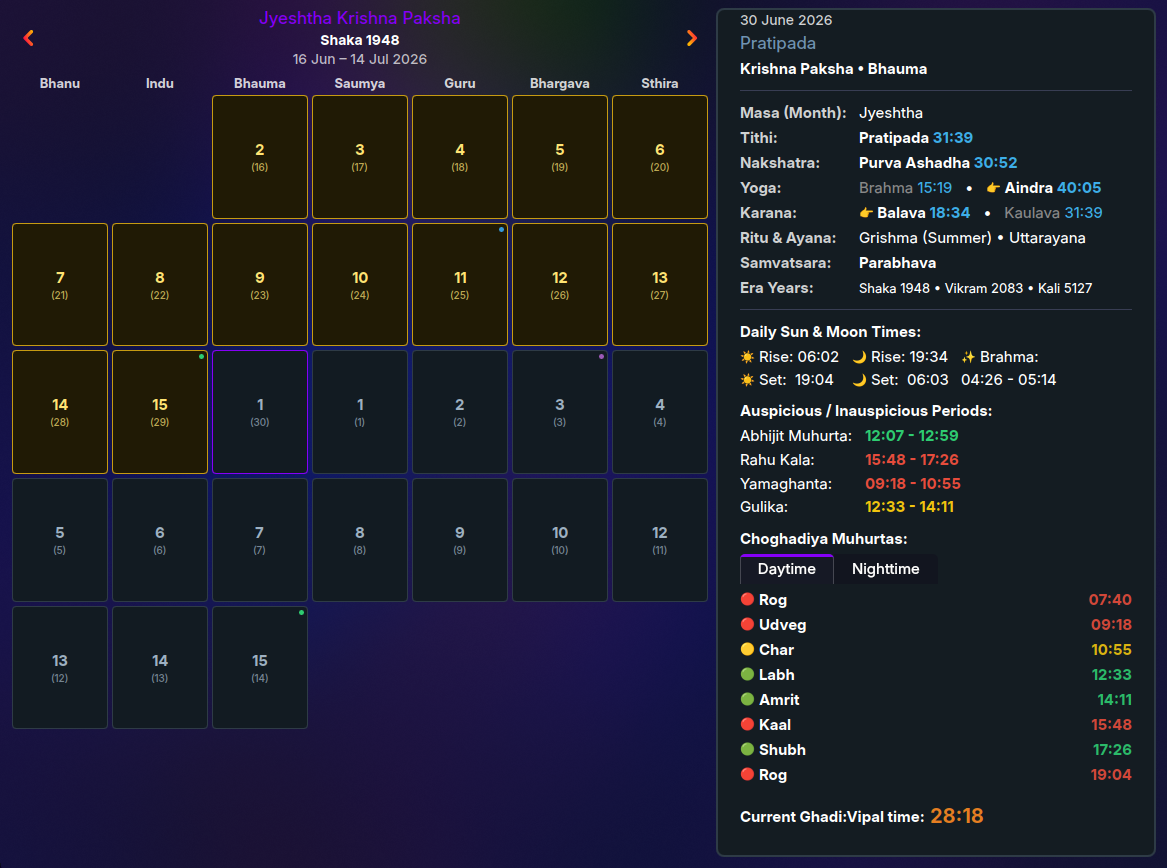
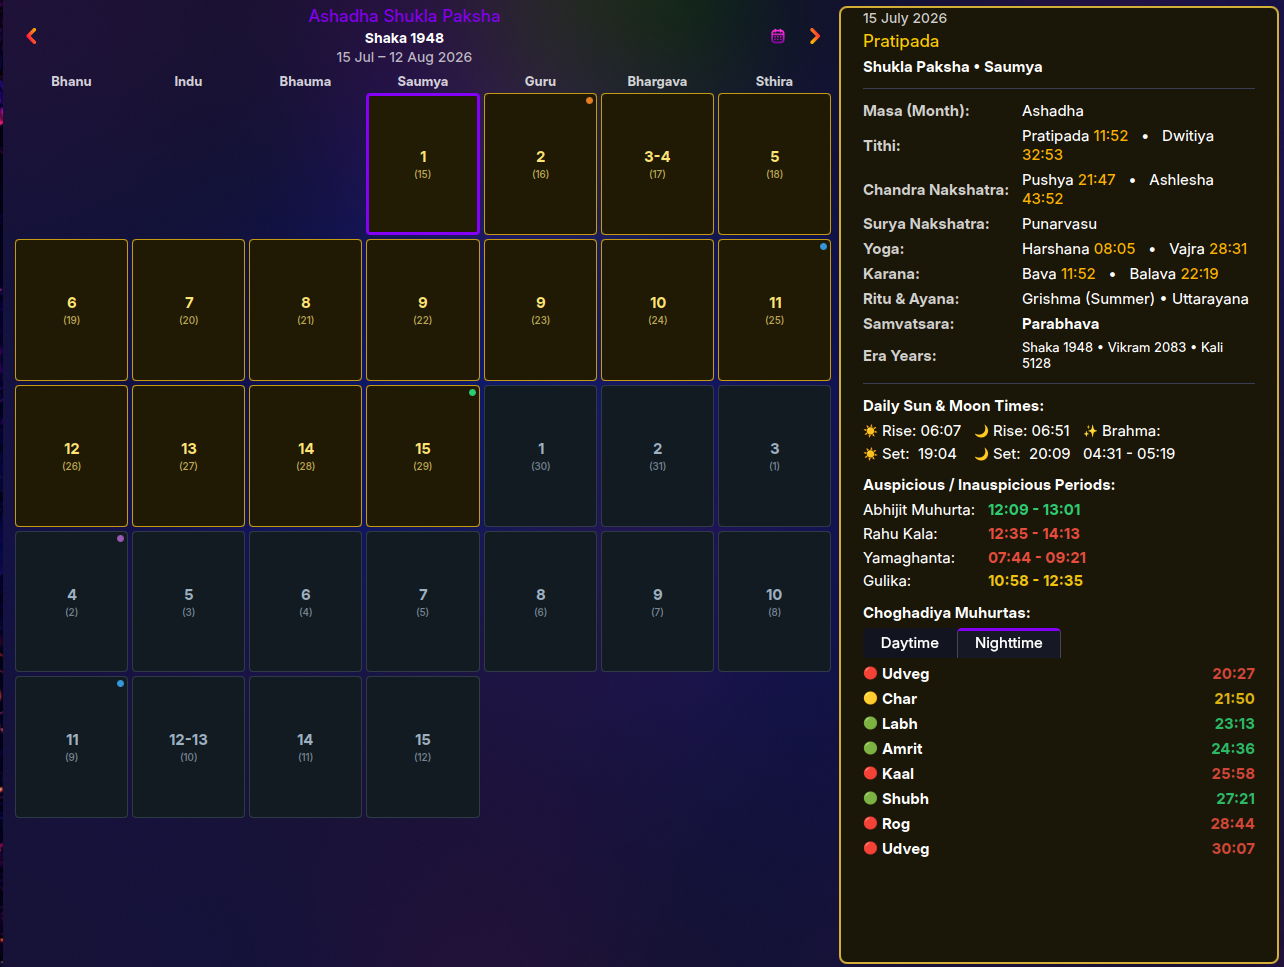
Handled Kshaya and Vriddhi tithis

diff --git a/contents/ui/main.qml b/contents/ui/main.qml
@@ -29,12 +29,12 @@ PlasmoidItem {
     onConfigFestivalRuleChanged: reloadAll()
     onConfigTithiModeChanged: reloadAll()
 
-    toolTipMainText: currentPanchanga ? `${currentPanchanga.masa} • ${currentPanchanga.paksha} ${configLang === "devanagari" ? "पक्ष" : "Paksha"} • ${configTithiMode === "traditional" ? currentPanchanga.tithi_1 : currentPanchanga.tithi}` : i18n("Kālayantra")
+    toolTipMainText: currentPanchanga ? `${currentPanchanga.masa} • ${currentPanchanga.paksha} ${configLang === "devanagari" ? "पक्ष" : "Paksha"} • ${currentPanchanga.tithi}` : i18n("Kālayantra")
     toolTipSubText: currentPanchanga ? (
         `${currentPanchanga.vaara}, ${currentPanchanga.date} (${currentPanchanga.era_name} ${currentPanchanga.era_year})\n\n` +
         (configLang === "devanagari" ? "सूर्योदय: " : "Sunrise: ") + `${currentPanchanga.sunrise}  •  ` + (configLang === "devanagari" ? "सूर्यास्त: " : "Sunset: ") + `${currentPanchanga.sunset}\n` +
         (configLang === "devanagari" ? "चंद्रोदय: " : "Moonrise: ") + `${currentPanchanga.moonrise}  •  ` + (configLang === "devanagari" ? "चंद्रास्त: " : "Moonset: ") + `${currentPanchanga.moonset}\n\n` +
-        (configLang === "devanagari" ? "तिथि: " : "Tithi: ") + `${configTithiMode === "traditional" ? currentPanchanga.tithi_1 : currentPanchanga.tithi}\n` +
+        (configLang === "devanagari" ? "तिथि: " : "Tithi: ") + `${currentPanchanga.tithi}\n` +
         (configLang === "devanagari" ? "नक्षत्र: " : "Nakshatra: ") + `${currentPanchanga.nakshatra}\n` +
         (configLang === "devanagari" ? "योग: " : "Yoga: ") + `${currentPanchanga.yoga}\n` +
         (configLang === "devanagari" ? "करण: " : "Karana: ") + `${currentPanchanga.karana}\n` +

diff --git a/contents/ui/CompactRepresentation.qml b/contents/ui/CompactRepresentation.qml
@@ -61,7 +61,7 @@ Item {
                 level: 5
                 text: {
                     if (!root.currentPanchanga) return "Loading...";
-                    var displayTithi = (root.configTithiMode === "traditional") ? root.currentPanchanga.tithi_1 : root.currentPanchanga.tithi;
+                    var displayTithi = root.currentPanchanga.tithi;
                     return `${displayTithi} • ${root.currentPanchanga.vaara} • ${(plasmoid.configuration.lang === "devanagari") ? "घ" : "Gh"}: ${root.liveGhadiTime}`;
                 }
                 font.bold: true

diff --git a/contents/ui/Kaladarshana.qml b/contents/ui/Kaladarshana.qml
@@ -754,7 +754,7 @@ Item {
 
                          Kirigami.Heading {
                              level: 2
-                             text: kaladarshana.selectedDayData ? (root.configTithiMode === "astronomical" ? kaladarshana.selectedDayData.tithi : kaladarshana.selectedDayData.tithi_1) : i18n("Select a day")
+                             text: kaladarshana.selectedDayData ? kaladarshana.selectedDayData.tithi : i18n("Select a day")
                              color: kaladarshana.selectedDayData && kaladarshana.selectedDayData.is_krishna_paksha ? "#7094b3" : "#ffcc00"
                              font.bold: true
                          }

diff --git a/contents/scripts/Kalotsavachakra.py b/contents/scripts/Kalotsavachakra.py
@@ -36,7 +36,7 @@ def resolve_festival_details(key, metadata_key, lang):
     }
 
 
-def calculate_festivals(astro_data, tz, custom_observances=None, festival_rule="vaishnava", lang="en"):
+def _calculate_festivals_internal(astro_data, tz, custom_observances=None, festival_rule="vaishnava", lang="en"):
     festivals = []
     
     # Extract raw parameters from astro_data
@@ -282,31 +282,40 @@ def calculate_festivals(astro_data, tz, custom_observances=None, festival_rule="
     # Dwadashi Day: Check if Vaishnava Ekadashi was pushed to today
     if t_sunrise == 11 or t_sunrise == 26:
         shukla_dwadashi = (t_sunrise == 11)
-        # Find yesterday's sunrise tithi
         jd_yest = sunrise_jd - 1.0
         t_yest = get_tithi_at_jd(jd_yest)
         
-        # If yesterday was Ekadashi (10 or 25)
+        yesterday_had_ekadashi = False
+        yesterday_was_viddha = False
+        
         if t_yest == 10 or t_yest == 25:
-            # Check if yesterday was viddha at Arunodaya
+            yesterday_had_ekadashi = True
             yest_sunrise_jd, _, _, _ = Kalachakra.get_sun_moon_rise_set(jd_ut_start - 1.0, astro_data.get("lat", 23.1765), astro_data.get("lon", 75.7885), astro_data.get("alt", 511.0))
             yest_arunodaya_jd = yest_sunrise_jd - (96.0 / 1440.0)
             t_yest_aru = get_tithi_at_jd(yest_arunodaya_jd)
-            is_viddha = (t_yest_aru == 9 or t_yest_aru == 24)
-            
-            if is_viddha and festival_rule == "vaishnava":
-                ekadashi_key = ("adhika" if astro_data.get("is_adhika", False) else masa_idx, not shukla_dwadashi)
-                ekadashi_meta = Kalakosha.EKADASHI_NAMES.get(ekadashi_key, {"en": "Ekadashi", "iast": "Ekādaśī", "devanagari": "एकादशी"})
-                ekadashi_name = ekadashi_meta[lang]
-                festivals.append({
-                    "name": f"{ekadashi_name} (Vaishnava)",
-                    "type": "Ekadashi",
-                    "color": "#3498db",
-                    "priority": 9,
-                    "description": f"{ekadashi_name} Vaishnava fast observed on Dwadashi due to Dashami-Ekadashi mixture at yesterday's Arunodaya.",
-                    "rule": "Vaishnava Dwadashi (Mahadvadashi)",
-                    "notify": "high"
-                })
+            yesterday_was_viddha = (t_yest_aru == 9 or t_yest_aru == 24)
+        else:
+            yest_sunrise_jd, _, _, _ = Kalachakra.get_sun_moon_rise_set(jd_ut_start - 1.0, astro_data.get("lat", 23.1765), astro_data.get("lon", 75.7885), astro_data.get("alt", 511.0))
+            yest_tithi_end_jd = Kalachakra.find_transition(yest_sunrise_jd, get_tithi_at_jd)
+            if yest_tithi_end_jd is not None:
+                t_yest_2 = get_tithi_at_jd(yest_tithi_end_jd + 0.02)
+                if t_yest_2 == 10 or t_yest_2 == 25:
+                    yesterday_had_ekadashi = True
+                    yesterday_was_viddha = True
+                    
+        if yesterday_had_ekadashi and yesterday_was_viddha and festival_rule == "vaishnava":
+            ekadashi_key = ("adhika" if astro_data.get("is_adhika", False) else masa_idx, not shukla_dwadashi)
+            ekadashi_meta = Kalakosha.EKADASHI_NAMES.get(ekadashi_key, {"en": "Ekadashi", "iast": "Ekādaśī", "devanagari": "एकादशी"})
+            ekadashi_name = ekadashi_meta[lang]
+            festivals.append({
+                "name": f"{ekadashi_name} (Vaishnava)",
+                "type": "Ekadashi",
+                "color": "#3498db",
+                "priority": 9,
+                "description": f"{ekadashi_name} Vaishnava fast observed on Dwadashi due to Dashami-Ekadashi mixture or Kshaya yesterday.",
+                "rule": "Vaishnava Dwadashi (Mahadvadashi)",
+                "notify": "high"
+            })
 
     # --- 3. Custom Lunar Observances Solver ---
     if custom_observances:
@@ -365,6 +374,29 @@ def calculate_festivals(astro_data, tz, custom_observances=None, festival_rule="
                 })
 
     # Sort festivals by priority descending
+    festivals.sort(key=lambda x: x["priority"], reverse=True)
+    return festivals
+
+
+def calculate_festivals(astro_data, tz, custom_observances=None, festival_rule="vaishnava", lang="en"):
+    has_kshaya = astro_data.get("is_tithi_2_kshaya", False)
+    t_kshaya = astro_data.get("tithi_2_idx")
+    
+    astro_data_copy = dict(astro_data)
+    astro_data_copy["is_tithi_2_kshaya"] = False
+    
+    festivals = _calculate_festivals_internal(astro_data_copy, tz, custom_observances, festival_rule, lang)
+    
+    if has_kshaya and t_kshaya is not None:
+        astro_data_kshaya = dict(astro_data_copy)
+        astro_data_kshaya["tithi_idx"] = t_kshaya
+        kshaya_fests = _calculate_festivals_internal(astro_data_kshaya, tz, custom_observances, festival_rule, lang)
+        
+        existing_names = {f["name"] for f in festivals}
+        for f in kshaya_fests:
+            if f["name"] not in existing_names:
+                festivals.append(f)
+                
     festivals.sort(key=lambda x: x["priority"], reverse=True)
     return festivals
 

diff --git a/contents/scripts/Kalachakra.py b/contents/scripts/Kalachakra.py
@@ -363,38 +363,51 @@ def calculate_panchanga(year, month, day, tz, lat, lon, alt, tithi_mode="traditi
     tithi_2_end = "--"
     tithi_2_end_jd = None
     tithi_2_idx = None
-    if tithi_end_jd is not None:
+    is_tithi_2_kshaya = False
+    if tithi_end_jd is not None and tithi_end_jd < tomorrow_sunrise_jd:
         tithi_2_idx = get_tithi_idx(tithi_end_jd + 0.02)
-        tithi_2_name = Kalakosha.TITHIS[lang][tithi_2_idx]
-        tithi_2_end_jd = find_transition(tithi_end_jd + 0.02, get_tithi_idx)
-        tithi_2_end = jd_to_time_str(tithi_2_end_jd)
+        tomorrow_tithi_idx = get_tithi_idx(tomorrow_sunrise_jd)
+        if tomorrow_tithi_idx != tithi_2_idx:
+            is_tithi_2_kshaya = True
+            
+        survives_midnight = (tithi_end_jd > jd_ut_start + 1.0)
+        if not survives_midnight:
+            tithi_2_name = Kalakosha.TITHIS[lang][tithi_2_idx]
+            tithi_2_end_jd = find_transition(tithi_end_jd + 0.02, get_tithi_idx)
+            tithi_2_end = jd_to_time_str(tithi_2_end_jd)
         
     nakshatra_2_name = "--"
     nakshatra_2_end = "--"
     nakshatra_2_end_jd = None
-    if nakshatra_end_jd is not None:
+    if nakshatra_end_jd is not None and nakshatra_end_jd < tomorrow_sunrise_jd:
         nakshatra_2_idx = get_nakshatra_idx(nakshatra_end_jd + 0.02)
-        nakshatra_2_name = Kalakosha.NAKSHATRAS[lang][nakshatra_2_idx]
-        nakshatra_2_end_jd = find_transition(nakshatra_end_jd + 0.02, get_nakshatra_idx)
-        nakshatra_2_end = jd_to_time_str(nakshatra_2_end_jd)
+        survives_midnight = (nakshatra_end_jd > jd_ut_start + 1.0)
+        if not survives_midnight:
+            nakshatra_2_name = Kalakosha.NAKSHATRAS[lang][nakshatra_2_idx]
+            nakshatra_2_end_jd = find_transition(nakshatra_end_jd + 0.02, get_nakshatra_idx)
+            nakshatra_2_end = jd_to_time_str(nakshatra_2_end_jd)
         
     yoga_2_name = "--"
     yoga_2_end = "--"
     yoga_2_end_jd = None
-    if yoga_end_jd is not None:
+    if yoga_end_jd is not None and yoga_end_jd < tomorrow_sunrise_jd:
         yoga_2_idx = get_yoga_idx(yoga_end_jd + 0.02)
-        yoga_2_name = Kalakosha.YOGAS[lang][yoga_2_idx]
-        yoga_2_end_jd = find_transition(yoga_end_jd + 0.02, get_yoga_idx)
-        yoga_2_end = jd_to_time_str(yoga_2_end_jd)
+        survives_midnight = (yoga_end_jd > jd_ut_start + 1.0)
+        if not survives_midnight:
+            yoga_2_name = Kalakosha.YOGAS[lang][yoga_2_idx]
+            yoga_2_end_jd = find_transition(yoga_end_jd + 0.02, get_yoga_idx)
+            yoga_2_end = jd_to_time_str(yoga_2_end_jd)
         
     karana_2_name = "--"
     karana_2_end = "--"
     karana_2_end_jd = None
-    if karana_end_jd is not None:
+    if karana_end_jd is not None and karana_end_jd < tomorrow_sunrise_jd:
         karana_2_idx = get_karana_idx(karana_end_jd + 0.02)
-        karana_2_name = get_karana_name_from_idx(karana_2_idx, lang)
-        karana_2_end_jd = find_transition(karana_end_jd + 0.02, get_karana_idx)
-        karana_2_end = jd_to_time_str(karana_2_end_jd)
+        survives_midnight = (karana_end_jd > jd_ut_start + 1.0)
+        if not survives_midnight:
+            karana_2_name = get_karana_name_from_idx(karana_2_idx, lang)
+            karana_2_end_jd = find_transition(karana_end_jd + 0.02, get_karana_idx)
+            karana_2_end = jd_to_time_str(karana_2_end_jd)
         
     # Rain/Surya Nakshatra (Sun's Nakshatra)
     def get_surya_nakshatra_idx(jd):
@@ -513,12 +526,6 @@ def calculate_panchanga(year, month, day, tz, lat, lon, alt, tithi_mode="traditi
     tithi_display_name = tithi_name
     tithi_num_val = (t_num_idx % 15) + 1
     
-    tomorrow_tithi_idx = get_tithi_idx(tomorrow_sunrise_jd)
-    is_tithi_2_kshaya = False
-    if tithi_2_idx is not None and tithi_2_idx != t_num_idx:
-        if tomorrow_tithi_idx != tithi_2_idx:
-            is_tithi_2_kshaya = True
-            
     if tithi_mode == "traditional" and is_tithi_2_kshaya:
         tithi_display_name = f"{tithi_name} - {tithi_2_name}"
         tithi_num_val = f"{(t_num_idx % 15) + 1}-{(tithi_2_idx % 15) + 1}"
@@ -529,10 +536,12 @@ def calculate_panchanga(year, month, day, tz, lat, lon, alt, tithi_mode="traditi
         "vaara": vaara_name,
         "tithi": tithi_active_name,
         "tithi_end": tithi_end,
-        "tithi_1": tithi_display_name,
+        "tithi_1": tithi_name,
         "tithi_1_end": tithi_end,
         "tithi_2": tithi_2_name,
         "tithi_2_end": tithi_2_end,
+        "tithi_2_idx": tithi_2_idx,
+        "is_tithi_2_kshaya": is_tithi_2_kshaya,
         "tithi_active_idx": tithi_active_idx,
         "tithi_survives": tithi_survives,
         

diff --git a/README.md b/README.md
@@ -64,8 +64,6 @@ Kālayantra is built with a strictly decoupled modular design following separati
 
 ![Settings](screenshots/settings.png)
 
-![Custom Observances](screenshots/custom.png)
-
 ## Installation
 
 ### Dependencies